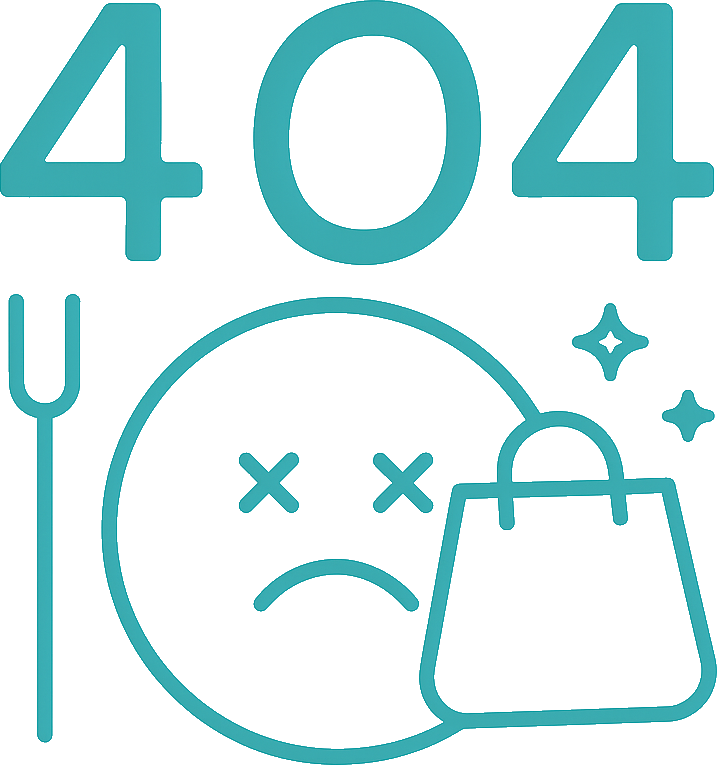
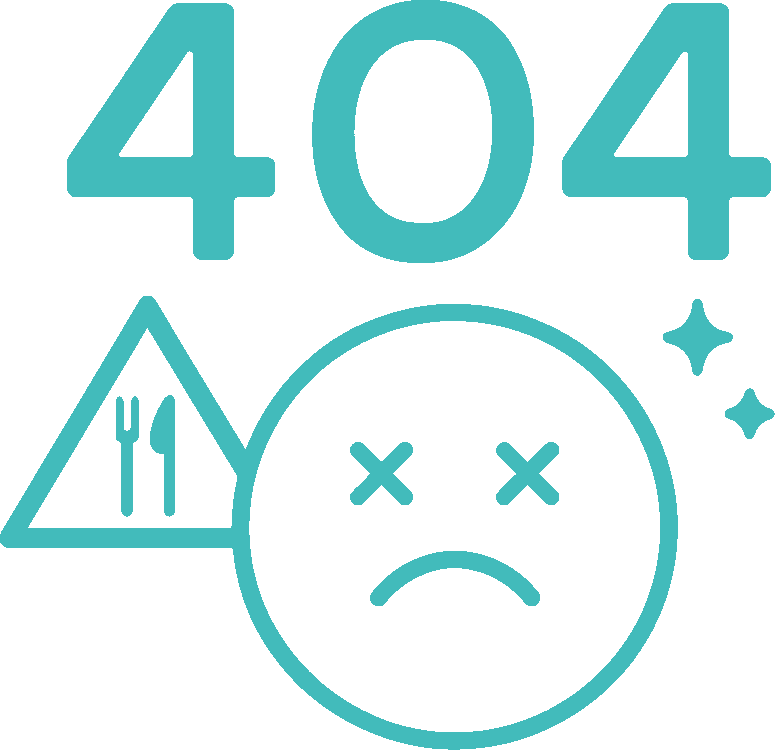
Fix allignment issues on smaller screens. Revert address input (to be fixed)

diff --git a/capstone/restaurant/templates/index.html b/capstone/restaurant/templates/index.html
@@ -19,18 +19,18 @@
             </div>
         </section>
         <section class='container-flex' id='buttons-section'>
-            <a class='container-flex button-img button' href="{% url 'order-menu' %}">
-                
+            <a href="{% url 'order-menu' %}">
+                <div class='container-flex button-img button'>
                     <img class='index-img' id='view-menu-img' src="{% static 'restaurant/images/view_menu_button.png' %}" alt="View Menu">
                     <h3 class="transparent-img-label">VIEW MENU</h3>
-                
+                </div>
             </a>
             {% if not user.is_authenticated %}
-                <a class='container-flex button-img button' href="{% url 'login' %}">
-                    
+                <a href="{% url 'login' %}">
+                    <div class='container-flex button-img button'>
                             <img class='index-img' id='login-img' src="{% static 'restaurant/images/start_order_button.png' %}" alt="Start Order">
                             <h3 class="transparent-img-label">START ORDER</h3>
-                    
+                    </div>
                 </a>
             {% endif %}
         </section>

diff --git a/capstone/restaurant/static/restaurant/css/base.css b/capstone/restaurant/static/restaurant/css/base.css
@@ -193,14 +193,13 @@ footer {
     }
 }
 
-@media screen and (max-width: 344px){
-    *{
-        padding: 0 !important; 
-        margin: 0 !important;
+@media screen and (max-width: 500px){
+    .review-button{
+        width: 30% !important;
+        padding: 0 !important;
     }
-    .nav-list{
-        border: none;
-        border-radius: 0;
+    .breadcrumbs-item{
+        padding: 20px 10px !important;
     }
 }
 
@@ -213,6 +212,8 @@ footer {
         max-width: 100% !important;
         font-size: 1em !important;
         transform: rotate(0) !important;
+        padding: 0 !important; 
+        margin: 0 !important;
     }
     a:has(img:not(.allergen-icon)){
         margin-left: auto !important;
@@ -224,7 +225,6 @@ footer {
     }
     .sticky{
         position: sticky !important;
-        text-align: center;
         z-index: 2;
     }
 }

diff --git a/capstone/restaurant/templates/user/profile.html b/capstone/restaurant/templates/user/profile.html
@@ -8,6 +8,7 @@
 {% endblock %}
 
 {% block content %}
+    {% block welcome %}{% endblock  %}
     <main>
         <h1>Welcome {{user.username|capfirst}}!</h1>
         <div class='felx-container content'>
@@ -32,6 +33,7 @@
                         <li>{{item.name}} x {{item.quantity}} ({{item.subtotal}})</li>
                 {% endfor %}
                     </ul>
+                    <img class='order-type-icon' src="{% static 'restaurant/images/delivery_info/'|add:order.order_type|add:'.png' %}" alt="{{order.get_order_type_display}}" title="{{order.get_order_type_display}}">
                     <p>Total: {{order.total}}</p>
                     <div class='container-flex buttons-container'>
                         <p><a class='button' href="#">Edit order</a></p>

diff --git a/capstone/restaurant/templates/restaurant/order_review.html b/capstone/restaurant/templates/restaurant/order_review.html
@@ -64,7 +64,10 @@
                         <label for="pickup-time">Pick-up time:</label>
                         <input type="time" id="pickup-time" name="pickup-time"><span id='pickup-warning' style='color: red;'></span>
                     {% else %}
-                        <input type="" class='input-choice' id="address" name="address" default="{{ user.address }}">
+                        <label for="address">Delivery address:</label>
+                        <select class='input-select' id="address" name="address" value="{{ default_address }}">
+                            <option value=></option>
+                        </select>
                     {% endif %}
                 </div>
                 <div class='container-flex container-buttons'>

diff --git a/capstone/restaurant/templates/restaurant/base.html b/capstone/restaurant/templates/restaurant/base.html
@@ -47,8 +47,10 @@
             </nav>
         </header>
         <hr>
-        <h3 class='text-center' id='user-greeting'>You are now logged in as {{user.username|capfirst|default:'Guest'}}!</h3>
+        {% block welcome %}
+        <h3 class='text-center' id='user-greeting'>Welcome, {{user.username|capfirst|default:'Guest'}}!</h3>
         <hr>
+        {% endblock  %}
         {% endblock %}
         {% block content %}
         {% endblock %}

diff --git a/capstone/restaurant/static/user/css/profile.css b/capstone/restaurant/static/user/css/profile.css
@@ -4,9 +4,23 @@
 }
 
 .order-card{
-    width: 20%;
-    margin-left: 5%;
+    width: 15%;
+    margin-left: 2%;
     margin-top: 1%;
     border: 2px #42bbbb solid;
     border-radius: 10px;
+    padding: 10px;
+}
+
+.order-type-icon{
+    max-width: 17.5%;
+    max-height: 17.5%;
+}
+
+.buttons-container{
+    padding-top: 5px;
+}
+
+.buttons-container .button{
+    padding: 5px;
 }

diff --git a/capstone/restaurant/templates/404.html b/capstone/restaurant/templates/404.html
@@ -4,7 +4,7 @@
 {% block title %}Page not found{% endblock %}
 
 {% block main-header %}
-    <h1>404!</h1>
+    <img src="{% static 'restaurant/images/404.png' %}">
 {% endblock %}
 {% block body %}
 <p>Sorry, the page you are trying to reach does not exit.</p>

diff --git a/capstone/restaurant/static/restaurant/css/order_menu.css b/capstone/restaurant/static/restaurant/css/order_menu.css
@@ -23,12 +23,14 @@ form{
     left:0;
     width: 100%;
     height: 10vh;
+    text-align: center;
 }
 
 .review-button{
     height: 100%;
     width: 80%;
     padding: 0 25%;
+    text-align: center;
 }
 
 .review-button, .review-button *{

diff --git a/capstone/restaurant/static/restaurant/css/index.css b/capstone/restaurant/static/restaurant/css/index.css
@@ -44,16 +44,12 @@ main > a{
     margin: 0 2.5%;
 }
 
-#buttons-section a{
-    width: 45%;
-}
-
 .button-img{
     width: 45%;
     height: 75%;
 }
 
-.index-img, .button-img{
+.index-img{
     background-color: #42bbbb;
 }
 

diff --git a/capstone/restaurant/views.py b/capstone/restaurant/views.py
@@ -1,5 +1,5 @@
 from django.shortcuts import render, redirect
-from .models import Menu, Order
+from .models import Menu, Order, User
 from django.contrib.auth.views import LoginView, LogoutView
 from django.contrib.auth import login
 from django.contrib.auth.forms import UserCreationForm
@@ -129,12 +129,17 @@ def orderreview(request, order_id):
 @login_required
 def order_review(request):
     if request.method == 'POST':
+        user = request.user
+        """ addresses = User.useraddress_set.filter(user = user)
+        try:
+            default_address = addresses.first()
+        except:
+            default_address = '' """
         response = request.POST
-        valid_order = False
         menu_item_names = [item.name for item in Menu.objects.all()]
         order = Order.objects.filter(user = request.user, status = 'O').first() #tries to find an open order for the user if no open order is found, creates a new order
         if not order:
-            order = Order(user = request.user)
+            order = Order(user = user)
             order.save()
         order_item_names = [item.menu_item.name for item in order.orderitem_set.all()]
         for key, value in response.items():

diff --git a/capstone/capstone/settings.py b/capstone/capstone/settings.py
@@ -116,7 +116,9 @@ USE_TZ = True
 # Static files (CSS, JavaScript, Images)
 # https://docs.djangoproject.com/en/5.2/howto/static-files/
 
+STATIC_ROOT = ''
 STATIC_URL = 'static/'
+STATICFILES_DIRS = ('static',)
 
 # Default primary key field type
 # https://docs.djangoproject.com/en/5.2/ref/settings/#default-auto-field
